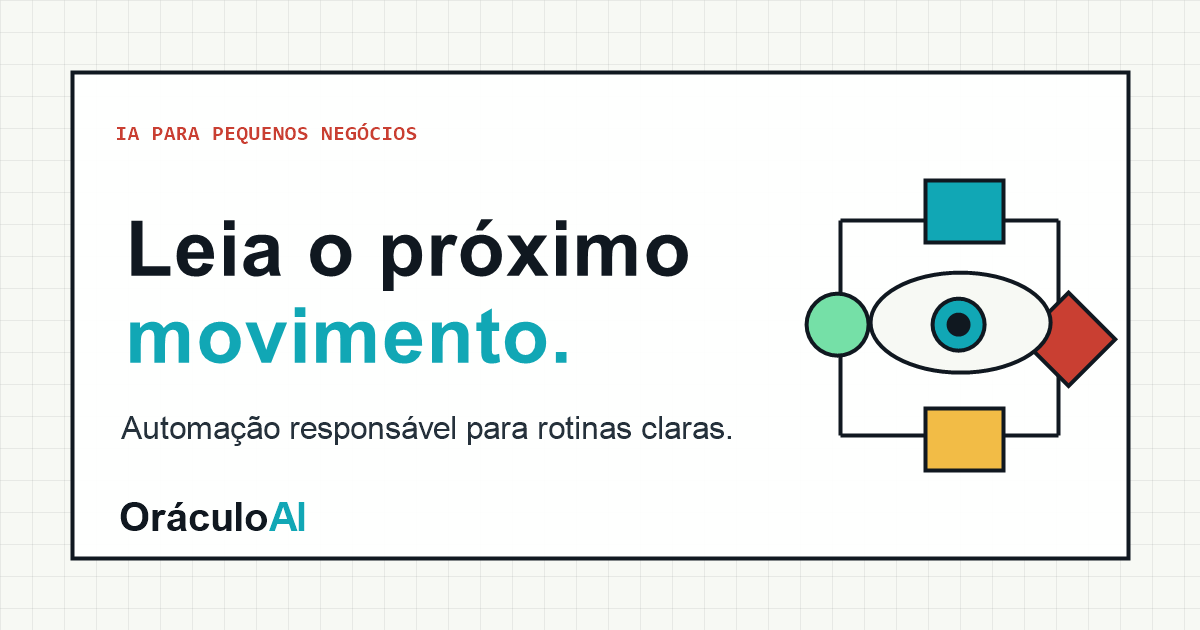
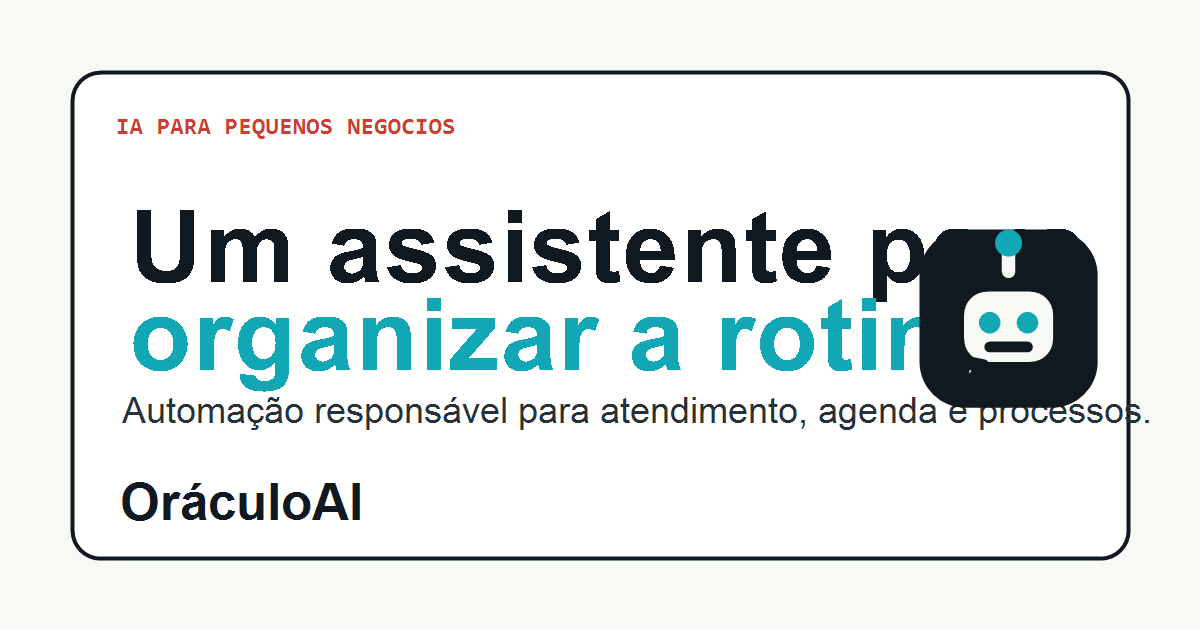
Use chatbot-inspired brand mark (#3)

diff --git a/src/app/globals.css b/src/app/globals.css
@@ -63,16 +63,12 @@ img, svg { display: block; }
 .site-header.is-scrolled { background: rgba(247,249,246,.88); border-bottom: 1px solid var(--line); box-shadow: 0 12px 32px rgba(16,24,32,.06); backdrop-filter: blur(18px); }
 .site-header__inner { height: 100%; display: flex; align-items: center; justify-content: space-between; gap: 28px; }
 .wordmark { display: inline-flex; align-items: center; gap: 10px; min-height: 44px; font-weight: 900; letter-spacing: -.04em; font-size: 1.22rem; color: var(--ink); }
-.wordmark__mark { width: 38px; height: 38px; flex: 0 0 38px; filter: drop-shadow(3px 3px 0 var(--amber)); }
-.wordmark__mark rect:first-child { fill: var(--ink); }
-.wordmark__flow { fill: none; stroke: var(--surface); stroke-width: 4; stroke-linecap: round; stroke-linejoin: round; }
-.wordmark__check-bg { fill: var(--mint); stroke: var(--ink); stroke-width: 3; }
-.wordmark__check { fill: none; stroke: var(--ink); stroke-width: 3; stroke-linecap: round; stroke-linejoin: round; }
-.wordmark__human-bg { fill: var(--coral); stroke: var(--ink); stroke-width: 3; }
-.wordmark__eye-white { fill: var(--paper); stroke: var(--ink); stroke-width: 4; stroke-linejoin: round; }
-.wordmark__iris { fill: var(--cyan); stroke: var(--ink); stroke-width: 3; }
-.wordmark__pupil { fill: var(--ink); }
-.wordmark__spark { fill: var(--paper); }
+.wordmark__mark { width: 40px; height: 40px; flex: 0 0 40px; filter: drop-shadow(3px 3px 0 var(--amber)); }
+.wordmark__bot-bg { fill: var(--ink); }
+.wordmark__bot-line, .wordmark__bot-mouth { fill: none; stroke: var(--paper); stroke-width: 4; stroke-linecap: round; }
+.wordmark__bot-node, .wordmark__bot-eye { fill: var(--cyan); }
+.wordmark__bot-face { fill: var(--paper); stroke: var(--ink); stroke-width: 4; }
+.wordmark__bot-tail { fill: var(--paper); stroke: var(--ink); stroke-width: 4; stroke-linejoin: round; }
 .wordmark > span > span { color: var(--cyan); }
 .desktop-nav { display: flex; align-items: center; gap: 28px; margin-left: auto; }
 .desktop-nav a { color: var(--ink-2); font-size: .9rem; font-weight: 750; transition: color .2s, background .2s; }
@@ -358,8 +354,9 @@ img, svg { display: block; }
 .site-footer__grid { display: grid; grid-template-columns: 1.4fr .7fr .7fr 1fr; gap: 48px; }
 .site-footer .wordmark { color: #fff; }
 .site-footer .wordmark__mark { filter: drop-shadow(3px 3px 0 var(--cyan)); }
-.site-footer .wordmark__mark rect:first-child { fill: var(--paper); }
-.site-footer .wordmark__flow { stroke: var(--ink); }
+.site-footer .wordmark__bot-bg { fill: var(--paper); }
+.site-footer .wordmark__bot-line, .site-footer .wordmark__bot-mouth { stroke: var(--ink); }
+.site-footer .wordmark__bot-face, .site-footer .wordmark__bot-tail { fill: var(--ink); stroke: var(--paper); }
 .site-footer .mono-label, .final-cta .mono-label { color: var(--mint); }
 .site-footer__brand p { max-width: 300px; color: rgba(255,255,255,.68); font-size: .86rem; }
 .site-footer__grid > div:not(:first-child) { display: flex; flex-direction: column; align-items: flex-start; gap: 10px; }

diff --git a/src/components/brand/Wordmark.tsx b/src/components/brand/Wordmark.tsx
@@ -4,18 +4,14 @@ export function Wordmark() {
   return (
     <Link href="/" className="wordmark" aria-label="OráculoAI - página inicial" translate="no">
       <svg className="wordmark__mark" viewBox="0 0 64 64" aria-hidden="true" focusable="false">
-        <rect width="64" height="64" rx="15" />
-        <path className="wordmark__flow" d="M14 18H45C49.4183 18 53 21.5817 53 26V43" />
-        <path className="wordmark__flow" d="M47 38L53 44L59 38" />
-        <path className="wordmark__flow" d="M50 46H19C14.5817 46 11 42.4183 11 38V21" />
-        <path className="wordmark__flow" d="M17 26L11 20L5 26" />
-        <circle className="wordmark__check-bg" cx="16" cy="32" r="9" />
-        <path className="wordmark__check" d="M12 32L15 35L21 28" />
-        <rect className="wordmark__human-bg" x="43.9" y="24" width="16" height="16" rx="4" transform="rotate(45 43.9 24)" />
-        <path className="wordmark__eye-white" d="M17 32C22 22 42 22 47 32C42 42 22 42 17 32Z" />
-        <circle className="wordmark__iris" cx="32" cy="32" r="9" />
-        <circle className="wordmark__pupil" cx="32" cy="32" r="4" />
-        <circle className="wordmark__spark" cx="36" cy="28" r="2" />
+        <rect className="wordmark__bot-bg" x="4" y="4" width="56" height="56" rx="15" />
+        <path className="wordmark__bot-line" d="M32 16V10" />
+        <circle className="wordmark__bot-node" cx="32" cy="9" r="4" />
+        <rect className="wordmark__bot-face" x="15" y="20" width="34" height="28" rx="10" />
+        <path className="wordmark__bot-tail" d="M24 48L18 56V47" />
+        <circle className="wordmark__bot-eye" cx="26" cy="34" r="3.5" />
+        <circle className="wordmark__bot-eye" cx="38" cy="34" r="3.5" />
+        <path className="wordmark__bot-mouth" d="M26 41H38" />
       </svg>
       <span>Oráculo<span>AI</span></span>
     </Link>
